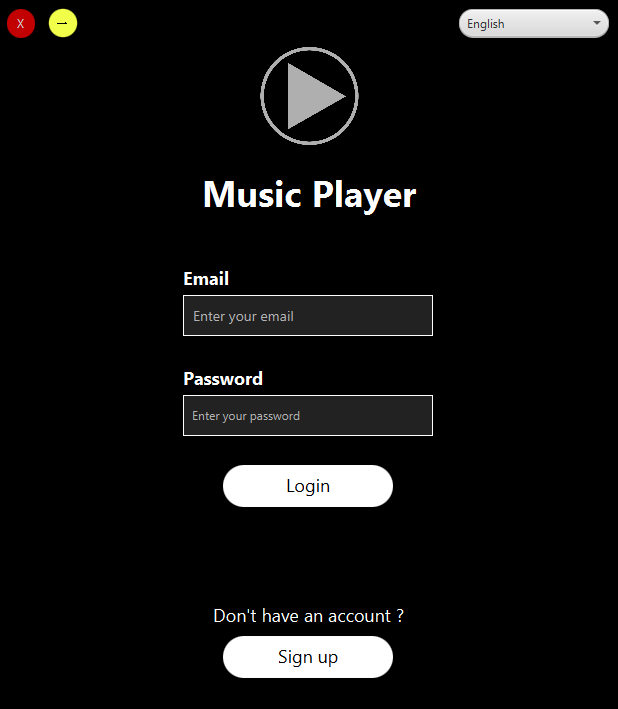
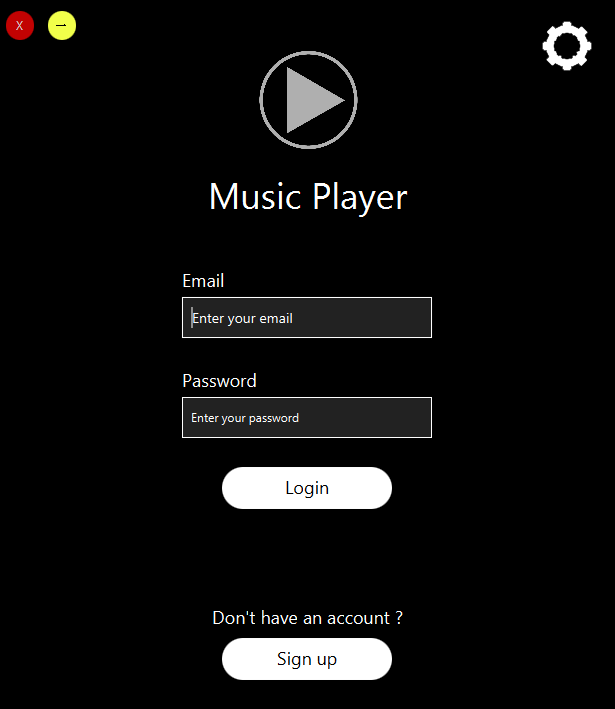
Update README

diff --git a/README.md b/README.md
@@ -3,6 +3,8 @@
 <p align="justify"> Este é o projeto final da matéria Linguagem de programação II (IMD0040). O projeto se trata de um tocador de mp3,
 onde os `usuário`s podem escutar suas músicas cadastrando-as através de diretórios. Estes diretórios deverão possuir as músicas que o `usuário` deseja escutar.</p>
 
+---
+
 ## Usuários ##
 
 Os `usuário`s são dividos em dois tipos, os `usuário`s comuns e os vips. A principal diferença entre eles é a possibilidade
@@ -16,20 +18,21 @@ Um `usuário`  vip apenas poderá ser criado quando o `usuário` `Admin` cadastr
 
 Ao iniciar o `Music Player`, a tela inicial que o `usuário` irá encontrar será a tela de login.
 
-
+<img src="docs\LoginScreen.png">
 
 Na tela de login, temos dois campos para preencher. O primeiro campo, será preenchido com o `email` que o `usuário` ou o 
 `usuário` `Admin`, cadastrou. Logo em seguida, temos a `senha`, que deve ser preenchida com a `senha` cadastrada (O registro
 por parte do `usuário` será discutido em breve). Caso o email e `senha`, do `usuário` que está tentando entrar, estejam corretos,
 basta apertar o botão de `login`. Caso as credenciais estejam incorretas, o `usuário` será informado, assim como mostra a imagem abaixo.
 
-
+<img src="docs\InvalidLoginScreen.png">
 
 Entretanto, se as credenciais estiverem corretas, o `usuário` irá para a tela principal do `Music Player`.
-
 ## Registro ##
 
 Se o `usuário` não possuir cadastro, basta `clicar` no botão de `sign up` e ele será redirecionado para a tele de registro.
+
+<img src="docs\SignUpScreen.png">
 
 Na tela de registro, temos três campos para preencher, sendo o primeiro deles o `username`. Este não é único de um `usuário`, logo, é possível
 haver mais de um `usuário`com o mesmo `username`.
@@ -38,12 +41,72 @@ O outro campo disponível para preencher é o `email`. Caso o `usuário` tente c
 irá informá-lo. Ou seja, ao contrário do `username`, não pode haver `emails` repetidos.
 Se o `usúario` cadastrar um email que já existe, o seguinte aviso será dado:
 
-
+<img src="docs\InvalidEmail.png">
 
 A `senha` é o terceiro campo, o `usuário` deve estar atento ao cadastrar a `senha`, pois, como já visto, ela será usada para realizar o `login`.
 o mesmo vale para o `email`.
 
 Caso o `usuário` não preencha algum desses campos, ele será avisado, assim como mostra a imagem abaixo:
 
+<img src="docs\MissingFields.png">
+
 Entretanto, se tudo for preenchido corretamente, o resgitro será um sucesso e um aviso será dado ao `usuário`, assim como mostra
 a imagem abaixo.
+
+<img src="docs\RegistrationSuccessful.png">
+
+## Tela Principal (Usuário Comum) ##
+
+<img src="docs\CommonUserScreen.png">
+
+Na tela principal, o `usuário comum` irá encontrar dois botões principais. Um chamado `Default directory`, que irá pegar
+as músicas que estão na pasta `songs`, essa pasta se encontra nesse mesmo projeto. O outro botão é o `Select a directory`, onde o `usuário` poderá
+selecionar o diretório onde as músicas, que ele deseja escutar, estão.
+
+## Tela Principal (Usuário Vip)
+
+<img src="docs\VipUserScreen.png">
+
+O `usuário vip` herda as funcionalidades do `usuário comum`. O `usuário vip` terá acesso a um botão chamado
+`Create a playlist`, ao clicar nesse botão, uma nova janela (imagem abaixo) irá aparecer, solicitando o nome da `playlist` que o usuário
+deseja criar.
+
+<img src="docs\NewPlaylistScreen.png">
+
+Ao inserir o nome da playlist, basta clicar em `create`, a `playlist` aparecerá na lista de `playlists`.
+
+<img src="docs\CreatePlaylistExample.png">
+<img src="docs\PlaylistCreated.png">
+
+Ao `clicar` na playlist criada, um novo botão, chamado `Add music to playlist`, irá aparecer. Este botão solicitará que o
+`usuário` escolha uma música, em algum diretório, para adicionar a `playlist`. Ao escolher a música, ela aparecerá ao lado
+da lista de playlists.
+
+<img src="docs\MusicAddedToAPlaylist.png">
+
+A imagem acima mostra mostra um exemplo de um usuário que adicionou uma nova música à playlist `Pop music 2023`.
+
+## Funcionalidades ##
+
+### Configurações ###
+
+<img src="docs\ConfigButton.png">
+
+Este botão se encontra na tela de login e na tela de registro do `usuário`. Ao clicá-lo, o `usuário` terá acesso a seguinte tela:
+
+<img src="docs\ConfigScreen.png">
+
+Nesta tela, o `usuário` poderá selecionar a linguagem do `Music Player`, podendo escolher entre:
+- Inglês
+
+- Português
+
+- Francês
+
+- Japonês
+
+Além disso, o usuário poderá esolhar o tema que deseja usar, podendo escolher entre o tema `escuro` e o tema `claro`.
+
+---
+
+> Desenvolvido por Yuri Filgueira e Renzo Paulo.
